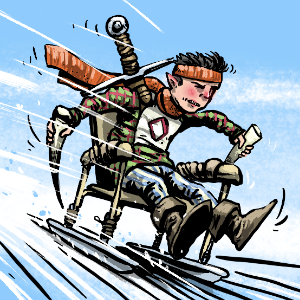
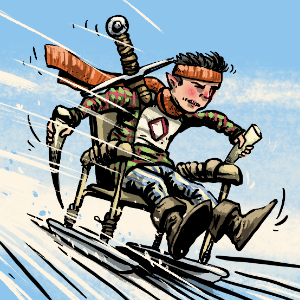
Perex image is slightly better positioned

diff --git a/source/assets/css/style.css b/source/assets/css/style.css
@@ -657,29 +657,6 @@ th, td {
     margin: 0;
 }
 
-a.perex, a.perex:hover {
-    color: #333;
-    text-decoration: none;
-}
-
-a.perex:hover {
-    color: black;
-    background-color: rgba(255, 255, 255, 0.45);
-}
-
-.perex img {
-    max-height: 260px;
-    min-height: 220px;
-    display: block;
-    float: left;
-    padding: 0 1em 0 0;
-    height: 30vw;
-}
-
-#post .perex img {
-    margin: 0;
-}
-
 /* show/hidden menu; ref https://stackoverflow.com/a/35362821/1348344 */
 @media (max-width: 768px) {
     .hidden-sm-down {
@@ -690,10 +667,6 @@ a.perex:hover {
 @media (max-width: 540px) {
     .hidden-xs-down {
         display: none !important;
-    }
-
-    .perex img {
-        display: none;
     }
 }
 

diff --git a/source/assets/css/perex.css b/source/assets/css/perex.css
@@ -1,0 +1,36 @@
+a.perex, a.perex:hover {
+    color: #333;
+    text-decoration: none;
+}
+
+a.perex:hover {
+    color: black;
+    background-color: rgba(255, 255, 255, 0.45);
+}
+
+.perex img {
+    min-width: 220px;
+    display: block;
+    float: left;
+    padding: 0 1em 0 0;
+}
+
+#post .perex img {
+    margin: 0;
+}
+
+
+@media (max-width: 540px) {
+    .perex img {
+        display: none;
+    }
+}
+
+.perex table {
+    margin: 0;
+}
+
+.perex td {
+    padding: 0;
+    border: none;
+}
